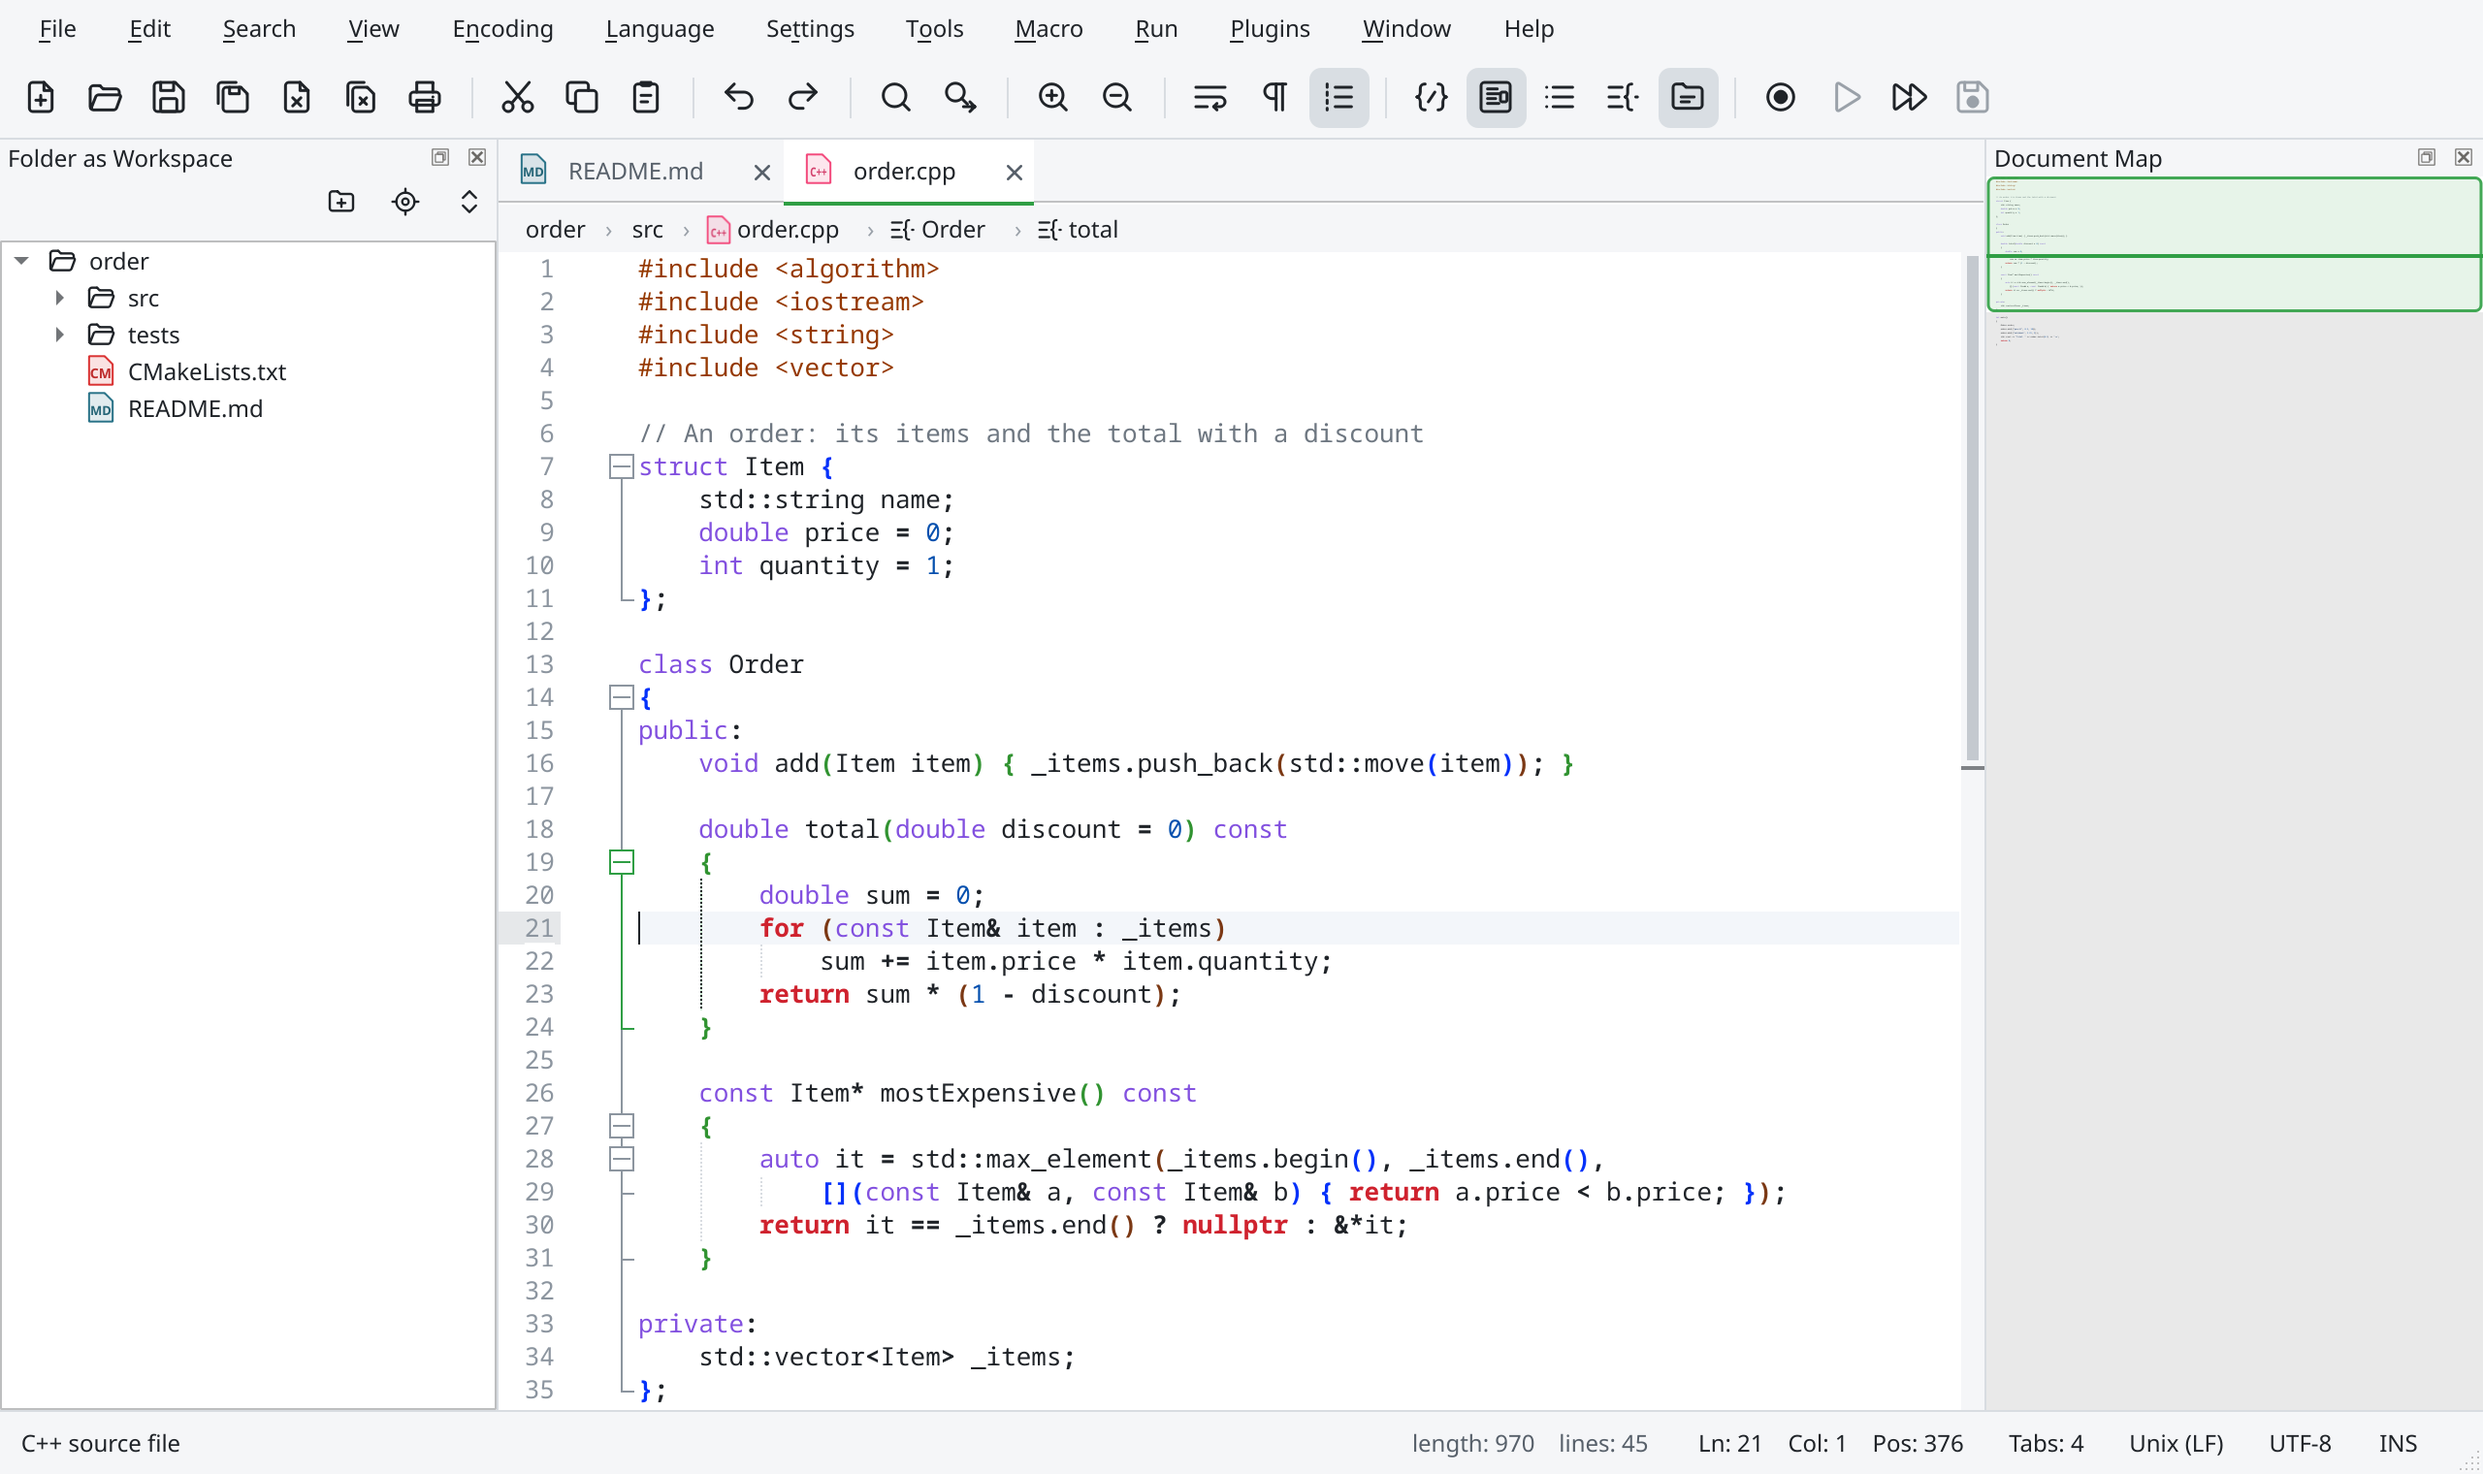
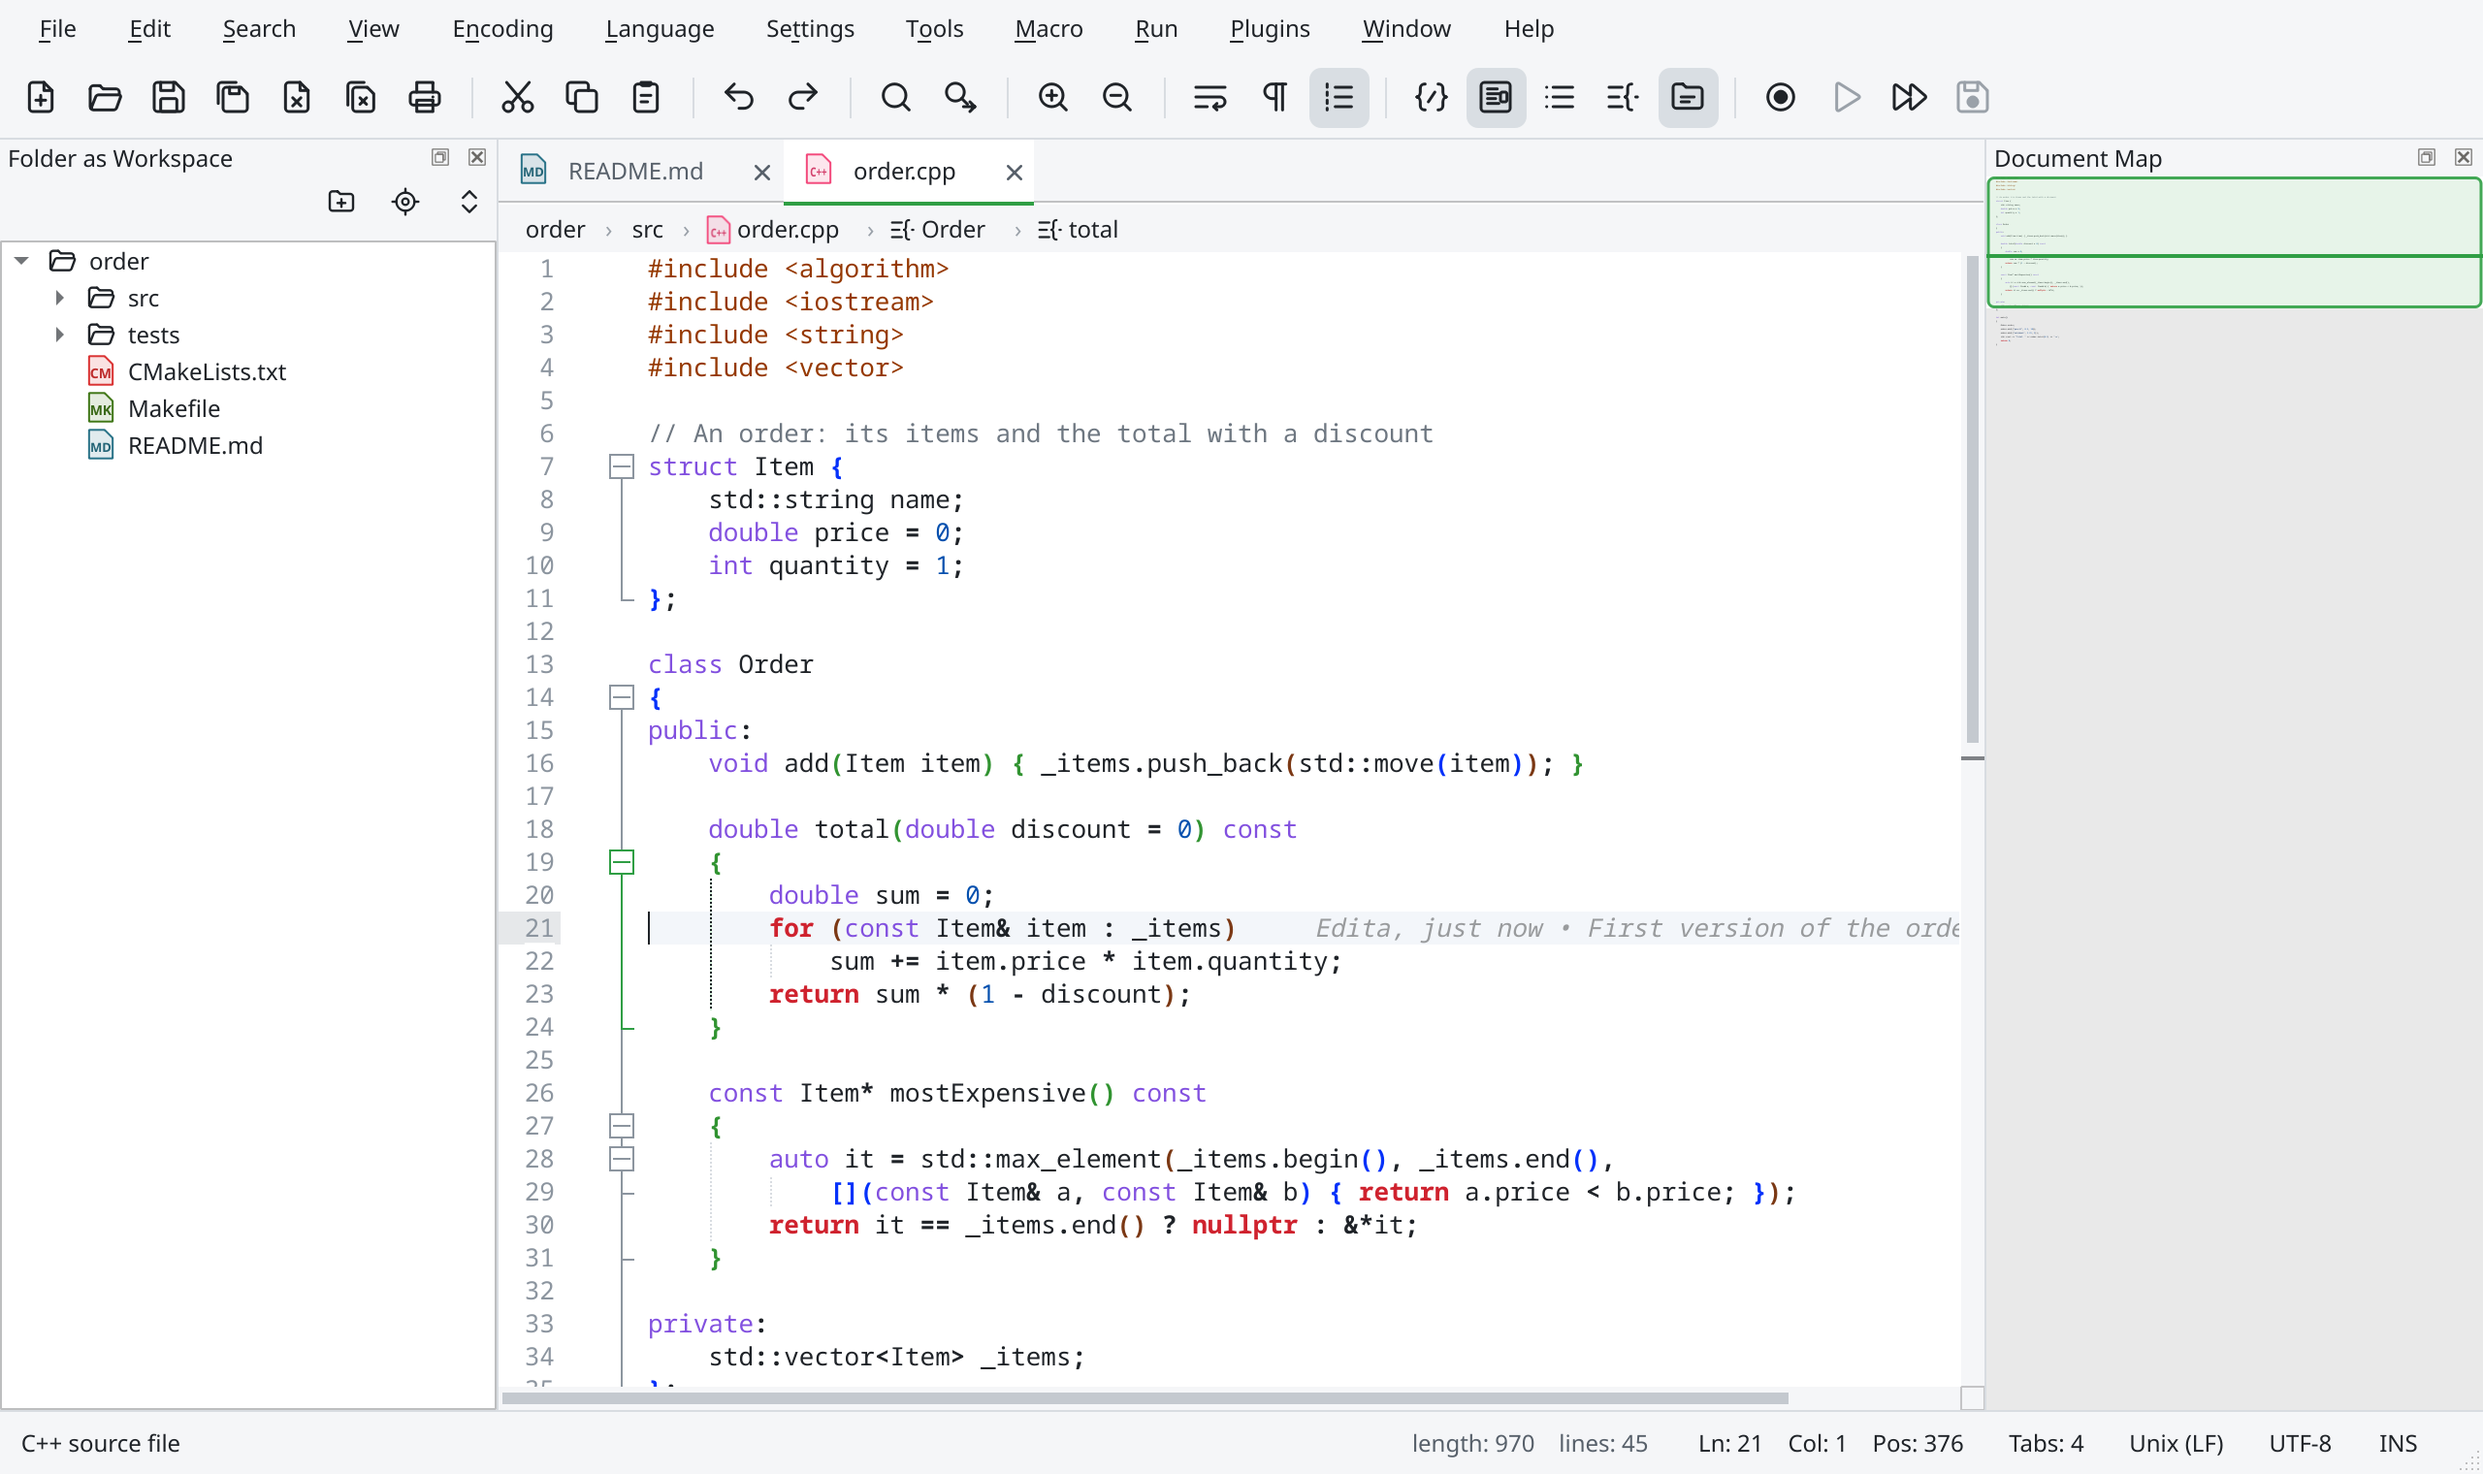
README: capturas de Git, tareas y terminal
readme_screenshots hace del proyecto de ejemplo un repositorio de Git (con
un autor genérico y sin la configuración del usuario) y captura el panel
Git con cambios en el margen, una tarea con un error real del compilador y
la terminal integrada (una shell sin configuración, en el idioma de la
captura). Las tres van en la galería de los dos README.

diff --git a/tests/readme_screenshots.cpp b/tests/readme_screenshots.cpp
@@ -14,6 +14,8 @@
 
 #include "ui/EditorView.h"
 #include "ui/MainWindow.h"
+#include "ui/Terminal.h"
+#include "ui/TerminalPanel.h"
 #include "ui/PluginManager.h"
 #include "ui/Translations.h"
 
@@ -24,10 +26,13 @@
 #include <QFile>
 #include <QLineEdit>
 #include <QPainter>
+#include <QProcess>
+#include <QStatusBar>
 #include <QTemporaryDir>
 #include <QTimer>
 #include <QTreeWidget>
 
+#include <cstring>
 #include <functional>
 #include <vector>
 
@@ -132,7 +137,17 @@ struct Step
 {
     std::function<void()> prepare;
     std::function<void()> capture;
+    int delay = 1500; // lo que se espera entre preparar y capturar
 };
+
+// git en `dir`, con un autor genérico y sin la configuración del usuario
+void git(const QString& dir, const QStringList& args)
+{
+    QProcess p;
+    p.setWorkingDirectory(dir);
+    p.start(QStringLiteral("git"), args);
+    p.waitForFinished(15000);
+}
 
 } // namespace
 
@@ -150,6 +165,19 @@ int main(int argc, char** argv)
     QTemporaryDir tmp;
     qputenv("XDG_CONFIG_HOME", tmp.filePath(QStringLiteral("config")).toUtf8());
     i18n::install(language);
+    // Nada del usuario en las capturas: git sin su configuración y una shell sin la suya
+    qputenv("GIT_CONFIG_GLOBAL", "/dev/null");
+    qputenv("GIT_CONFIG_NOSYSTEM", "1");
+    for (const char* var : {"GIT_AUTHOR_NAME", "GIT_COMMITTER_NAME"})
+        qputenv(var, "Edita");
+    for (const char* var : {"GIT_AUTHOR_EMAIL", "GIT_COMMITTER_EMAIL"})
+        qputenv(var, "edita@example.invalid");
+    qputenv("SHELL", "/bin/sh");
+    qputenv("ENV", "");
+    qputenv("PS1", "$ ");
+    qputenv("GIT_PAGER", "cat");
+    if (language.startsWith(QLatin1String("en")))
+        qputenv("LC_ALL", "C.UTF-8"); // los mensajes de la shell, en inglés
 
     const QString project = tmp.filePath(QStringLiteral("order"));
     // Los textos del ejemplo, en el idioma de la captura
@@ -162,6 +190,11 @@ int main(int argc, char** argv)
     write(project + QStringLiteral("/tests/test_order.cpp"), english ? "// tests\n" : "// pruebas\n");
     write(project + QStringLiteral("/CMakeLists.txt"), "cmake_minimum_required(VERSION 3.20)\nproject(order CXX)\n");
     write(project + QStringLiteral("/README.md"), kReadme);
+    write(project + QStringLiteral("/Makefile"), "build:\n\tg++ -std=c++20 -Wall -c src/order.cpp -o /dev/null\n");
+    git(project, {QStringLiteral("init"), QStringLiteral("-q"), QStringLiteral("-b"), QStringLiteral("main")});
+    git(project, {QStringLiteral("add"), QStringLiteral(".")});
+    git(project, {QStringLiteral("commit"), QStringLiteral("-q"), QStringLiteral("-m"),
+                  english ? QStringLiteral("First version of the order") : QStringLiteral("Primera versión del pedido")});
 
     MainWindow w;
     auto prefs = w.preferences();
@@ -201,6 +234,20 @@ int main(int argc, char** argv)
                     w.plugins()->runCommand(c.cmdId);
             }
         }
+    };
+
+    // order.cpp como en el commit, guardado
+    auto restoreSource = [&] {
+        w.openFile(project + QStringLiteral("/src/order.cpp"));
+        w.editor()->setText(std::string(source.constData(), static_cast<std::size_t>(source.size())));
+        w.saveBuffer(w.currentBuffer());
+    };
+    auto replaceInSource = [&](const char* from, const char* to) {
+        std::string text = w.editor()->text();
+        if (const auto at = text.find(from); at != std::string::npos)
+            text.replace(at, std::strlen(from), to);
+        w.editor()->setText(text);
+        w.saveBuffer(w.currentBuffer());
     };
 
     const std::vector<Step> steps{
@@ -265,7 +312,55 @@ int main(int argc, char** argv)
              while (w.editor()->send(SCI_CANUNDO))
                  w.editor()->send(SCI_UNDO);
          }},
-        // 6. El administrador de plugins con el catálogo (modal: la captura va antes)
+        // 6. Git: cambios en el margen y el panel Ver › Git
+        {[&] {
+             hideDocks();
+             w.statusBar()->clearMessage();
+             w.openFile(project + QStringLiteral("/src/order.cpp"));
+             replaceInSource("    int quantity = 1;\n", "    int quantity = 1;\n    std::string sku;\n");
+             replaceInSource("return sum * (1 - discount);", "return std::max(0.0, sum * (1 - discount));");
+             action("actionGitCommit")->trigger();
+             w.editor()->send(SCI_GOTOLINE, 23);
+         },
+         [&] {
+             save(w.grab().toImage(), "edita-git.png");
+             hideDocks();
+             restoreSource();
+         },
+         2500},
+        // 7. Una tarea del proyecto (make build) con un error del compilador
+        {[&] {
+             hideDocks();
+             replaceInSource("sum += item.price * item.quantity;", "sum += item.price * item.qty;");
+             w.runTask({QStringLiteral("make build"), QStringLiteral("make build"), project, QStringLiteral("Makefile")});
+         },
+         [&] {
+             save(w.grab().toImage(), "edita-tasks.png");
+             hideDocks();
+             restoreSource();
+         },
+         6000},
+        // 8. La terminal integrada
+        {[&] {
+             hideDocks();
+             w.openTerminal(project);
+             w.statusBar()->clearMessage();
+             // Una orden cada vez, cuando la anterior ya terminó
+             const QStringList commands{QStringLiteral("git log --oneline"), QStringLiteral("ls src tests"),
+                                        QStringLiteral("cat Makefile")};
+             for (int i = 0; i < commands.size(); ++i) {
+                 QTimer::singleShot(1500 + 600 * i, &app, [&w, command = commands[i]] {
+                     if (auto* panel = w.findChild<TerminalPanel*>(); panel && panel->currentTerminal())
+                         panel->currentTerminal()->sendText(command + QLatin1Char('\n'));
+                 });
+             }
+         },
+         [&] {
+             save(w.grab().toImage(), "edita-terminal.png");
+             hideDocks();
+         },
+         4500},
+        // 9. El administrador de plugins con el catálogo (modal: la captura va antes)
         {[&] {
              hideDocks();
              QTimer::singleShot(3500, &app, [&] {
@@ -293,7 +388,7 @@ int main(int argc, char** argv)
             return;
         }
         steps[i].prepare();
-        QTimer::singleShot(1500, &app, [&, i] {
+        QTimer::singleShot(steps[i].delay, &app, [&, i] {
             steps[i].capture();
             QTimer::singleShot(300, &app, [&, i] { run(i + 1); });
         });

diff --git a/README.md b/README.md
@@ -126,12 +126,20 @@ flowchart LR
 <td align="center"><b>Markdown preview</b> while you type (MarkdownViewer++)</td>
 </tr>
 <tr>
-<td width="50%"><img src="data/manual/en/images/localhistory.png" alt="Local History panel comparing an earlier version"></td>
-<td width="50%"><img src="data/manual/en/images/regex.png" alt="Regex tester with matches and groups"></td>
+<td width="50%"><img src="docs/images/en/edita-git.png" alt="Git panel with a modified file and change marks in the margin"></td>
+<td width="50%"><img src="docs/images/en/edita-tasks.png" alt="Task Output with a compiler error underlined"></td>
 </tr>
 <tr>
+<td align="center"><b>Git</b>: changes in the margin, inline blame and the commit panel</td>
+<td align="center"><b>Project tasks</b> (Ctrl+Shift+B): compiler errors you can double click</td>
+</tr>
+<tr>
+<td width="50%"><img src="docs/images/en/edita-terminal.png" alt="Integrated terminal below the editor"></td>
+<td width="50%"><img src="data/manual/en/images/localhistory.png" alt="Local History panel comparing an earlier version"></td>
+</tr>
+<tr>
+<td align="center"><b>Integrated terminal</b> (Ctrl+`), with tabs</td>
 <td align="center"><b>Local history</b>: every saved version, ready to compare or restore</td>
-<td align="center"><b>Regex tester</b> with live matches, groups and replace preview</td>
 </tr>
 </table>
 

diff --git a/README.es.md b/README.es.md
@@ -45,6 +45,10 @@ Encima de eso, suma lo que hoy se espera de un editor: paleta de órdenes, Git e
 | **Tema oscuro**, con el explorador y la lista de funciones | **Paleta de órdenes** (Ctrl+Mayús+A): cualquier orden por su nombre |
 | ![Comparar con la versión guardada](docs/images/edita-compare.png) | ![Vista previa de Markdown](docs/images/edita-markdown.png) |
 | **Comparar** con lo guardado o entre dos archivos | **Vista previa de Markdown** mientras escribes (MarkdownViewer++) |
+| ![Panel Git y marcas de cambios en el margen](docs/images/edita-git.png) | ![Salida de una tarea con un error del compilador](docs/images/edita-tasks.png) |
+| **Git**: cambios en el margen, blame en la línea y el panel para confirmar | **Tareas del proyecto** (Ctrl+Mayús+B): doble clic en un error lleva a la línea |
+| ![Terminal integrada debajo del editor](docs/images/edita-terminal.png) | |
+| **Terminal integrada** (Ctrl+` o Ctrl+Ñ), con pestañas | |
 
 <p align="center">
   <img src="docs/images/edita-plugins.png" alt="Administrador de plugins con el catálogo" width="80%"><br>
